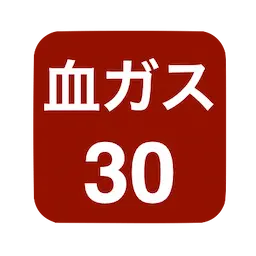
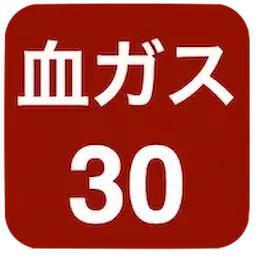
webp化

diff --git a/index.html b/index.html
@@ -71,9 +71,8 @@
   .about-card h3{font-family:"Rajdhani",sans-serif;font-size:1rem;font-weight:700;letter-spacing:2px;color:var(--neon-cyan);text-transform:uppercase;margin-bottom:10px;}
   .about-card p{font-size:.84rem;line-height:1.7;color:var(--text-muted);}
   .works-grid{display:grid;grid-template-columns:repeat(auto-fit,minmax(260px,1fr));gap:24px;}
-  .work-card{background:var(--card-bg);border:1px solid rgba(0,245,255,.2);border-radius:14px;overflow:hidden;transition:transform .3s,box-shadow .3s;position:relative;display:flex;flex-direction:column;text-decoration:none;color:inherit;cursor:pointer;}
-  .work-card:hover{transform:translateY(-8px) scale(1.01);box-shadow:0 20px 50px rgba(0,245,255,.2);border-color:var(--neon-cyan);}
-  .work-card:active{transform:translateY(-2px) scale(1.005);transition:transform .1s;}
+  .work-card{background:var(--card-bg);border:1px solid rgba(0,245,255,.2);border-radius:14px;overflow:hidden;position:relative;display:flex;flex-direction:column;color:inherit;cursor:default;}
+  .work-card:hover{border-color:rgba(0,245,255,.2);}
   @media(hover:none){.work-card:hover{transform:none;box-shadow:none;border-color:rgba(0,245,255,.2);}}
   .work-card-top{height:130px;display:flex;align-items:center;justify-content:center;font-size:3.5rem;position:relative;overflow:hidden;}
   .work-card-top::after{content:"";position:absolute;inset:0;background:linear-gradient(180deg,transparent 50%,var(--card-bg) 100%);}
@@ -177,78 +176,78 @@
     <h2 class="section-title">Our <span>Works</span></h2>
   </div>
   <div class="works-grid">
-    <a href="https://ponde3110.github.io/shin_on_sei/" target="_blank" rel="noopener" class="work-card reveal">
+    <div class="work-card reveal">
       <div class="work-card-top bg-game has-logo">
         <div class="app-icon-wrap">
-          <img src="https://ponde3110.github.io/shin_on_sei/favicon.ico" class="work-card-logo favicon-icon" alt="心音の旅 アイコン" onerror="this.src='https://www.google.com/s2/favicons?domain=ponde3110.github.io&sz=128';this.onerror=null;">
+          <img src="1.webp" class="work-card-logo favicon-icon" alt="心音の旅 アイコン">
         </div>
         <span class="work-tag tag-game">Space Game</span>
       </div>
       <div class="work-body">
         <h3>心音の旅</h3>
         <p>ロケットを操作しながら心音を診断して心臓星へ</p>
-        <span class="work-btn"><svg viewBox="0 0 24 24" fill="none" stroke="currentColor" stroke-width="2.5"><path d="M18 13v6a2 2 0 01-2 2H5a2 2 0 01-2-2V8a2 2 0 012-2h6"/><polyline points="15 3 21 3 21 9"/><line x1="10" y1="14" x2="21" y2="3"/></svg>View App</span>
+        <a href="https://ponde3110.github.io/shin_on_sei/" target="_blank" rel="noopener" class="work-btn"><svg viewBox="0 0 24 24" fill="none" stroke="currentColor" stroke-width="2.5"><path d="M18 13v6a2 2 0 01-2 2H5a2 2 0 01-2-2V8a2 2 0 012-2h6"/><polyline points="15 3 21 3 21 9"/><line x1="10" y1="14" x2="21" y2="3"/></svg>View App</a>
       </div>
-    </a>
-    <a href="https://kenpo.jpn.panasonic.com/kinen/kinen/cardiac_PE_drill/index.html" target="_blank" rel="noopener" class="work-card reveal">
+    </div>
+    <div class="work-card reveal">
       <div class="work-card-top bg-english has-logo">
         <div class="app-icon-wrap">
-          <img src="https://kenpo.jpn.panasonic.com/kinen/kinen/cardiac_PE_drill/favicon.ico" class="work-card-logo favicon-icon" alt="Cardiac Physical Exam Drill アイコン" onerror="this.src='https://www.google.com/s2/favicons?domain=ponde3110.github.io&sz=128';this.onerror=null;">
+          <img src="2.webp" class="work-card-logo favicon-icon" alt="Cardiac Physical Exam Drill アイコン">
         </div>
         <span class="work-tag tag-english">Drill Book</span>
       </div>
       <div class="work-body">
         <h3>循環器フィジカル　- 100本ノック -</h3>
         <p>循環器疾患の身体所見を網羅的に学ぶアプリ</p>
-        <span class="work-btn"><svg viewBox="0 0 24 24" fill="none" stroke="currentColor" stroke-width="2.5"><path d="M18 13v6a2 2 0 01-2 2H5a2 2 0 01-2-2V8a2 2 0 012-2h6"/><polyline points="15 3 21 3 21 9"/><line x1="10" y1="14" x2="21" y2="3"/></svg>View App</span>
+        <a href="https://kenpo.jpn.panasonic.com/kinen/kinen/cardiac_PE_drill/index.html" target="_blank" rel="noopener" class="work-btn"><svg viewBox="0 0 24 24" fill="none" stroke="currentColor" stroke-width="2.5"><path d="M18 13v6a2 2 0 01-2 2H5a2 2 0 01-2-2V8a2 2 0 012-2h6"/><polyline points="15 3 21 3 21 9"/><line x1="10" y1="14" x2="21" y2="3"/></svg>View App</a>
       </div>
-    </a>
-    <a href="https://ponde3110.github.io/heart_sound_meister/" target="_blank" rel="noopener" class="work-card reveal">
+    </div>
+    <div class="work-card reveal">
       <div class="work-card-top bg-mini has-logo">
         <div class="app-icon-wrap">
-          <img src="https://ponde3110.github.io/heart_sound_meister/favicon.ico" class="work-card-logo favicon-icon" alt="心音マイスター アイコン" onerror="this.src='https://www.google.com/s2/favicons?domain=ponde3110.github.io&sz=128';this.onerror=null;">
+          <img src="3.webp" class="work-card-logo favicon-icon" alt="心音マイスター アイコン">
         </div>
         <span class="work-tag tag-mini">Shooting Game</span>
       </div>
       <div class="work-body">
         <h3>Heart Sound Meister</h3>
         <p>BGMに合う心音を選んで撃破する英語ゲーム</p>
-        <span class="work-btn"><svg viewBox="0 0 24 24" fill="none" stroke="currentColor" stroke-width="2.5"><path d="M18 13v6a2 2 0 01-2 2H5a2 2 0 01-2-2V8a2 2 0 012-2h6"/><polyline points="15 3 21 3 21 9"/><line x1="10" y1="14" x2="21" y2="3"/></svg>View App</span>
+        <a href="https://ponde3110.github.io/heart_sound_meister/" target="_blank" rel="noopener" class="work-btn"><svg viewBox="0 0 24 24" fill="none" stroke="currentColor" stroke-width="2.5"><path d="M18 13v6a2 2 0 01-2 2H5a2 2 0 01-2-2V8a2 2 0 012-2h6"/><polyline points="15 3 21 3 21 9"/><line x1="10" y1="14" x2="21" y2="3"/></svg>View App</a>
       </div>
-    </a>
-    <a href="https://kenpo.jpn.panasonic.com/kinen/kinen/simple_JVP/index.html" target="_blank" rel="noopener" class="work-card reveal">
+    </div>
+    <div class="work-card reveal">
       <div class="work-card-top bg-jvp has-logo">
-        <div class="app-icon-wrap"><img src="https://kenpo.jpn.panasonic.com/kinen/kinen/simple_JVP/favicon.ico" class="work-card-logo favicon-icon" alt="シンプル頚静脈 アイコン" onerror="this.src='https://www.google.com/s2/favicons?domain=kenpo.jpn.panasonic.com&sz=128';this.onerror=null;"></div>
+        <div class="app-icon-wrap"><img src="4.webp" class="work-card-logo favicon-icon" alt="シンプル頚静脈 アイコン"></div>
         <span class="work-tag tag-med">Guidance</span>
       </div>
       <div class="work-body">
         <h3>シンプル頚静脈　Simple JVP</h3>
         <p>5ステップ法で学ぶ英語とのバイリンガル・アプリ</p>
-        <span class="work-btn"><svg viewBox="0 0 24 24" fill="none" stroke="currentColor" stroke-width="2.5"><path d="M18 13v6a2 2 0 01-2 2H5a2 2 0 01-2-2V8a2 2 0 012-2h6"/><polyline points="15 3 21 3 21 9"/><line x1="10" y1="14" x2="21" y2="3"/></svg>View App</span>
+        <a href="https://kenpo.jpn.panasonic.com/kinen/kinen/simple_JVP/index.html" target="_blank" rel="noopener" class="work-btn"><svg viewBox="0 0 24 24" fill="none" stroke="currentColor" stroke-width="2.5"><path d="M18 13v6a2 2 0 01-2 2H5a2 2 0 01-2-2V8a2 2 0 012-2h6"/><polyline points="15 3 21 3 21 9"/><line x1="10" y1="14" x2="21" y2="3"/></svg>View App</a>
       </div>
-    </a>
-    <a href="https://kenpo.jpn.panasonic.com/kinen/kinen/phs/index.html" target="_blank" rel="noopener" class="work-card reveal">
+    </div>
+    <div class="work-card reveal">
       <div class="work-card-top bg-phs has-logo">
-        <div class="app-icon-wrap"><img src="https://kenpo.jpn.panasonic.com/kinen/kinen/phs/favicon.ico" class="work-card-logo favicon-icon" alt="ポケット心音 アイコン" onerror="this.src='https://www.google.com/s2/favicons?domain=kenpo.jpn.panasonic.com&sz=128';this.onerror=null;"></div>
+        <div class="app-icon-wrap"><img src="5.webp" class="work-card-logo favicon-icon" alt="ポケット心音 アイコン"></div>
         <span class="work-tag tag-med">Dictionary</span>
       </div>
       <div class="work-body">
         <h3>ポケット心音</h3>
         <p>心音の学習に必要な知識をまとめた辞典</p>
-        <span class="work-btn"><svg viewBox="0 0 24 24" fill="none" stroke="currentColor" stroke-width="2.5"><path d="M18 13v6a2 2 0 01-2 2H5a2 2 0 01-2-2V8a2 2 0 012-2h6"/><polyline points="15 3 21 3 21 9"/><line x1="10" y1="14" x2="21" y2="3"/></svg>View App</span>
+        <a href="https://kenpo.jpn.panasonic.com/kinen/kinen/phs/index.html" target="_blank" rel="noopener" class="work-btn"><svg viewBox="0 0 24 24" fill="none" stroke="currentColor" stroke-width="2.5"><path d="M18 13v6a2 2 0 01-2 2H5a2 2 0 01-2-2V8a2 2 0 012-2h6"/><polyline points="15 3 21 3 21 9"/><line x1="10" y1="14" x2="21" y2="3"/></svg>View App</a>
       </div>
-    </a>
-    <a href="https://kenpo.jpn.panasonic.com/kinen/kinen/bga30/index.html" target="_blank" rel="noopener" class="work-card reveal">
+    </div>
+    <div class="work-card reveal">
       <div class="work-card-top bg-edu has-logo">
-        <div class="app-icon-wrap"><img src="https://kenpo.jpn.panasonic.com/kinen/kinen/bga30/favicon.ico" class="work-card-logo favicon-icon" alt="血ガス-30 アイコン" onerror="this.src='https://www.google.com/s2/favicons?domain=kenpo.jpn.panasonic.com&sz=128';this.onerror=null;"></div>
+        <div class="app-icon-wrap"><img src="6.webp" class="work-card-logo favicon-icon" alt="血ガス-30 アイコン"></div>
         <span class="work-tag tag-edu">Mini Game</span>
       </div>
       <div class="work-body">
         <h3>血ガス-30</h3>
         <p>血液ガス分析の解釈をマスターするミニゲーム</p>
-        <span class="work-btn"><svg viewBox="0 0 24 24" fill="none" stroke="currentColor" stroke-width="2.5"><path d="M18 13v6a2 2 0 01-2 2H5a2 2 0 01-2-2V8a2 2 0 012-2h6"/><polyline points="15 3 21 3 21 9"/><line x1="10" y1="14" x2="21" y2="3"/></svg>View App</span>
+        <a href="https://kenpo.jpn.panasonic.com/kinen/kinen/bga30/index.html" target="_blank" rel="noopener" class="work-btn"><svg viewBox="0 0 24 24" fill="none" stroke="currentColor" stroke-width="2.5"><path d="M18 13v6a2 2 0 01-2 2H5a2 2 0 01-2-2V8a2 2 0 012-2h6"/><polyline points="15 3 21 3 21 9"/><line x1="10" y1="14" x2="21" y2="3"/></svg>View App</a>
       </div>
-    </a>
+    </div>
   </div>
 </section>
 <div class="divider"></div>
@@ -310,9 +309,9 @@
   // スクロールリベール
   const obs=new IntersectionObserver(entries=>entries.forEach(e=>{if(e.isIntersecting){e.target.classList.add("visible");obs.unobserve(e.target);}}),{threshold:.1});
   document.querySelectorAll(".reveal").forEach(el=>obs.observe(el));
-  // スマホのタップ後ホバー残留を解消
-  document.querySelectorAll('.work-card').forEach(card=>{
-    card.addEventListener('touchend',()=>{setTimeout(()=>card.blur(),300);});
+  // VIEW APPボタンのみリンク有効（カード全体のクリックは無効）
+  document.querySelectorAll('.work-btn').forEach(btn=>{
+    btn.addEventListener('click',e=>{e.stopPropagation();});
   });
   // フォーム（Formspree）
   document.getElementById("contactForm").addEventListener("submit",async function(e){
